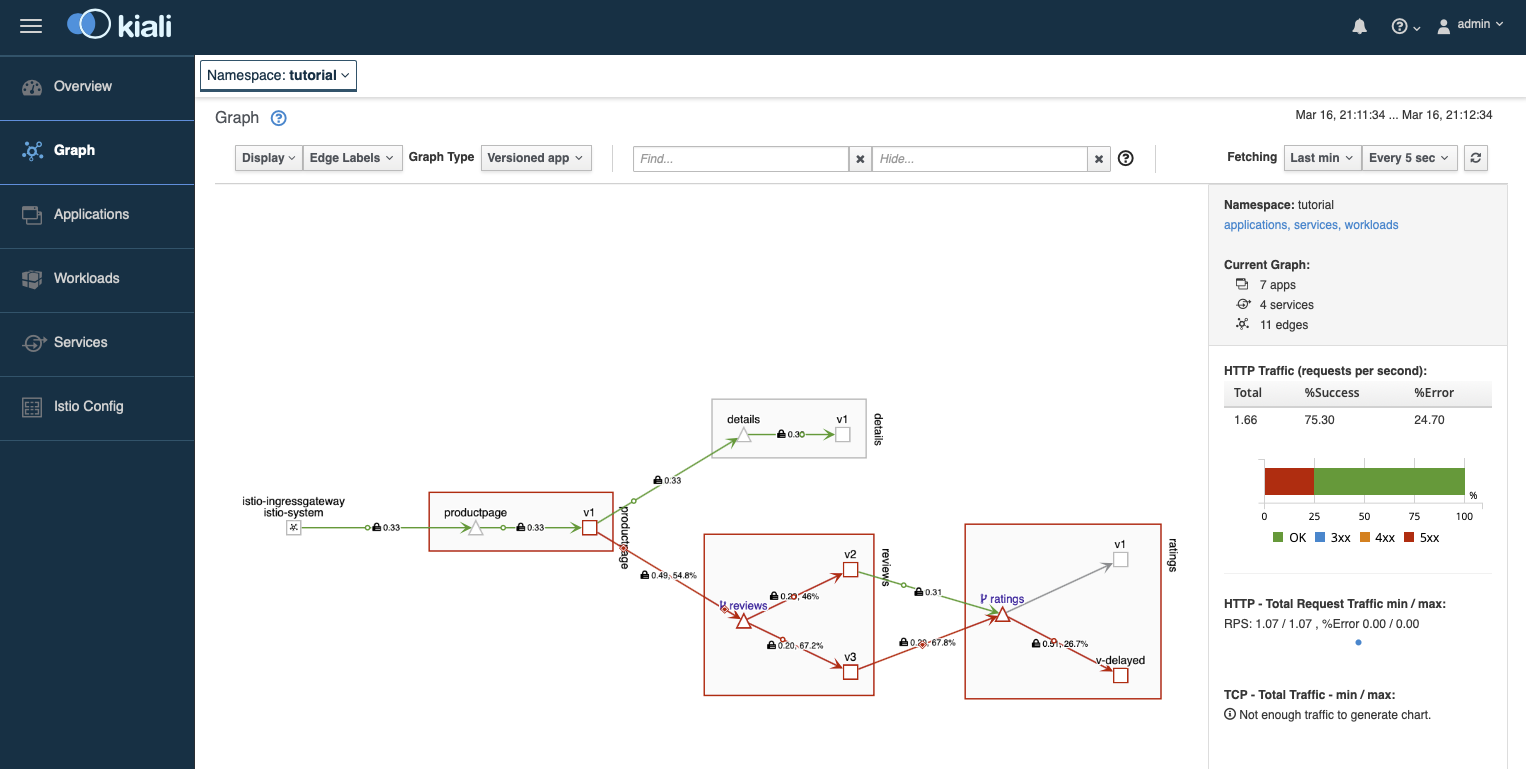
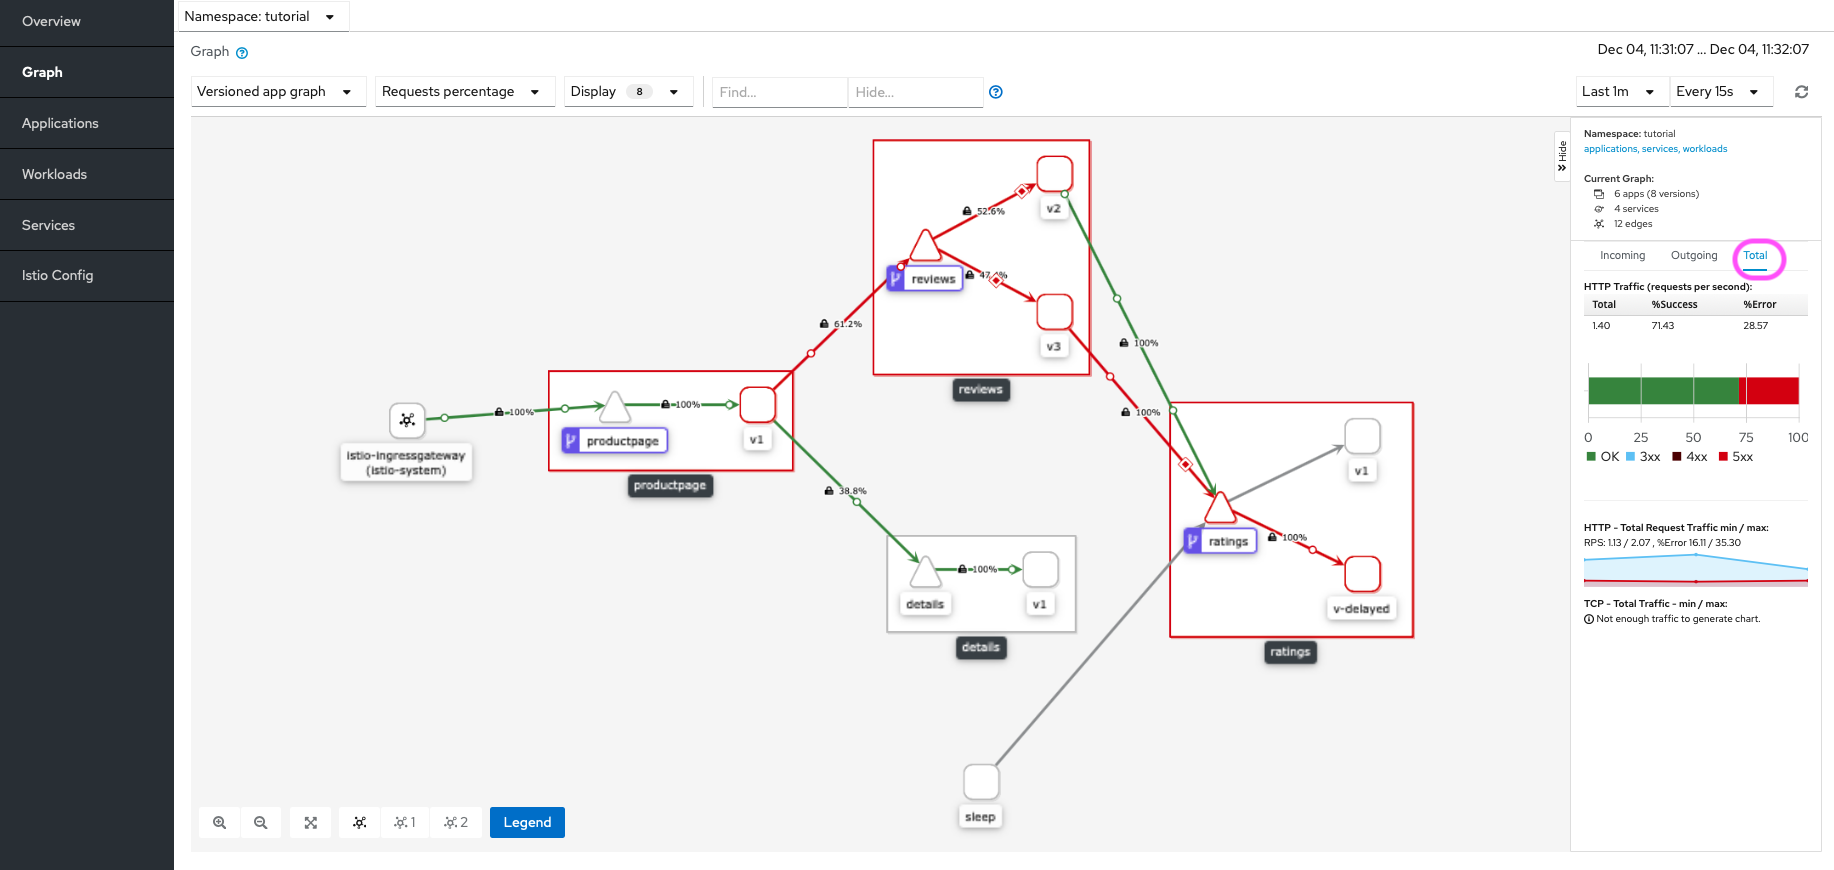
replace Kiali images in timeouts

diff --git a/content/en/docs/tutorial/timeouts-with-istio/index.md b/content/en/docs/tutorial/timeouts-with-istio/index.md
@@ -88,8 +88,8 @@ user instead of letting the user wait for a long period of time.
 1.  Check your Kiali console,
     [http://my-kiali.io/kiali/console](http://my-kiali.io/kiali/console), the graph of your namespace.
 
-    Note that now `productpage` turned orange while `reviews` and `ratings` turned red. Notice the red edges and the
-    error rate of the HTTP traffic on the right.
+    Note that now `productpage`, `reviews` and `ratings` turned red. Notice the red edges.
+    In the `HTTP traffic` tab on the right, select `Total`. Notice the error rate of the HTTP traffic.
 
     {{< image width="80%"
         link="kiali-delayed-ratings.png"
@@ -146,7 +146,7 @@ user instead of letting the user wait for a long period of time.
 
     {{< image width="80%"
         link="kiali-timeout-to-ratings.png"
-        caption="Kiali Graph Tab with faulty ratings"
+        caption="Kiali Graph Tab with timeout to ratings"
         >}}
 
 1.  Remove the `v-delayed` version of `ratings`, the virtual service that routes to it, and recreate the destination
